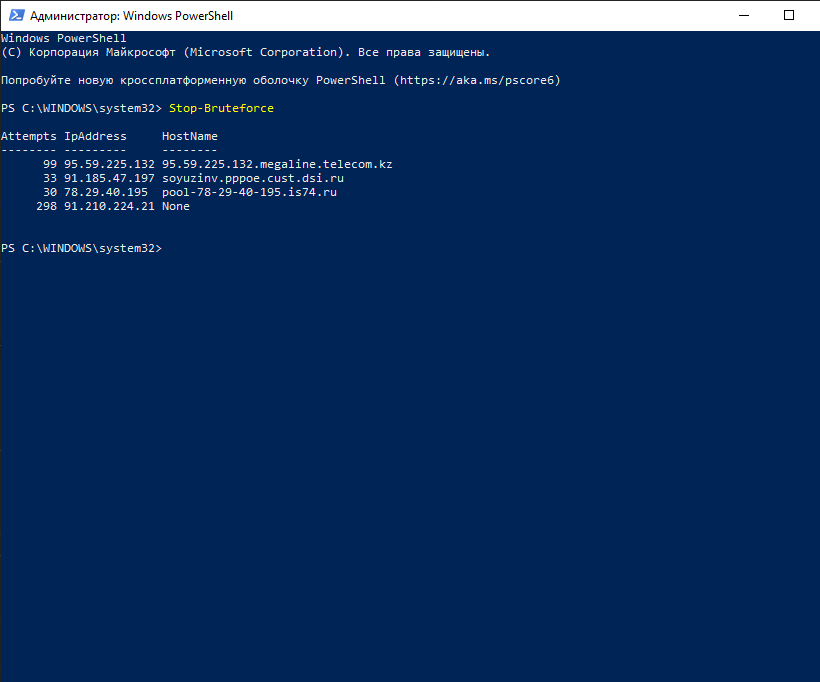
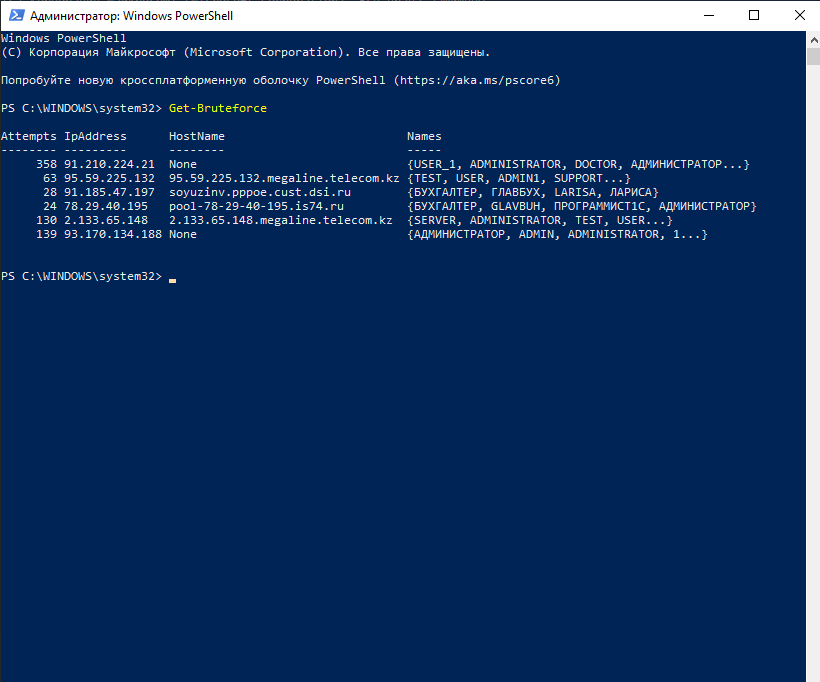
bump version

diff --git a/Readme.md b/Readme.md
@@ -6,35 +6,20 @@ The **PSStopBruteforce** modules to stop bruteforce attack on SMB, RDP and WinRm
 
 ## Installation
 
-### From Source
-
-To manually install the module,
-download the source code and unzip the contents to the directory for powershell 5.1:
 ```
-$env:ProgramFiles\WindowsPowerShell\Modules
+Install-Module -Name StopBruteforce
 ```
-
-Or for Powershell 7:
-```
-$env:ProgramFiles\PowerShell\7\Modules
-```
-
 
 ## Requirements
 
-* The minimum Windows Management Framework (PowerShell) version required is 5.1
-or higher.
-* Target machine must be running Windows Server 2016 or later.
+The implementation of the module depends on the Windows event log, so the functionality is different for different versions of Microsoft Windows.
 
-## List of commands and examples
-The following is a list of commands which are available for you to use once you follow the steps in Installation
-
-| Command                                                  |Description|
-|----------------------------------------------------------|-----------|
-| [Stop-Bruteforce](https://github.com/nneeoo/PSStopBruteforce/wiki/Stop-Bruteforce)                 |Read Windows Event Log, search for Audit Failure. Adds ip adresses of attackers to deny firewall rule.|
-| [Get-Bruteforce](https://github.com/nneeoo/PSStopBruteforce/wiki/Get-Bruteforce)                     |Read Windows Event Log, search for Audit Failure and Audit success anonimous logon events. Return array of BruteStatistics.|
-| [Protect-FromBruteforce](https://github.com/nneeoo/PSStopBruteforce/wiki/Protect-FromBruteforce)     |Read Windows Event Log, search for Audit Seccess. Add ip adresses of non anonimous users to default firewall rules.|
-| [Unprotect-FromBruteforce](https://github.com/nneeoo/PSStopBruteforce/wiki/Unprotect-FromBruteforce) |Reset remote scope of default firewall rules for SMB, WinRM or RDP back to ANY.|
+| Command                                                                                               | Requirement                      |
+|-------------------------------------------------------------------------------------------------------|----------------------------------|
+| [Stop-Bruteforce](https://github.com/nneeoo/PSStopBruteforce/wiki/Stop-Bruteforce)                    | Windows Server 2016 or later.    |
+| [Get-Bruteforce](https://github.com/nneeoo/PSStopBruteforce/wiki/Get-Bruteforce)                      | Windows Server 2016 or later.           |
+| [Protect-FromBruteforce](https://github.com/nneeoo/PSStopBruteforce/wiki/Protect-FromBruteforce)      | Windows Server 2012 R2 or later. |
+| [Unprotect-FromBruteforce](https://github.com/nneeoo/PSStopBruteforce/wiki/Unprotect-FromBruteforce)  | Windows Server 2012 R2 or later. |
 
 ## Change log
 

diff --git a/CHANGELOG.md b/CHANGELOG.md
@@ -1,5 +1,12 @@
 # Change log
 
+### 1.0.5
+- Slightly faster event log search
+- Cmdlets write warnings if nothing happened
+- Get-Bruteforce now collect usernames 
+- Add Cmdlet input validation
+- Fix false warnings
+
 ### 1.0.4
 
 - Protect-FromBruteforce - do nothing if no network logons was found
